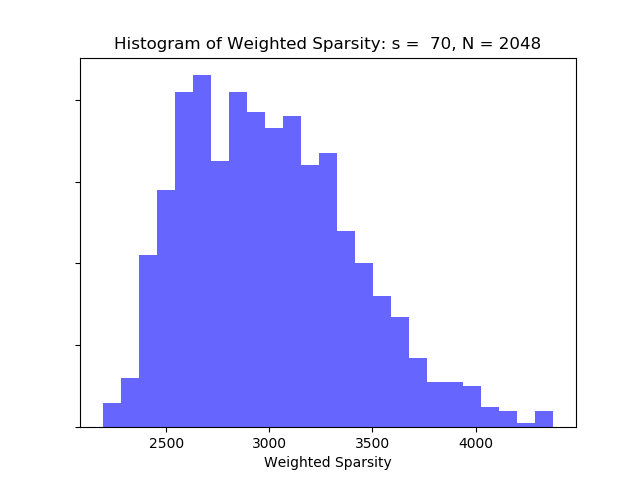
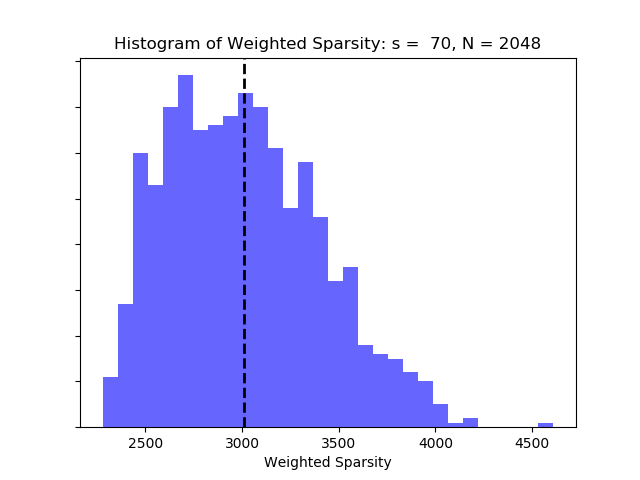
Fixed error in avg calculation

diff --git a/trees.py b/trees.py
@@ -148,43 +148,6 @@ class sTree:
             # increment cl counter
             cl += 1
 
-    def get_k_tree_s():
-        """
-        set value of k tree s given the sparsity
-        level for the tree
-        """
-        # initialize KTS -- K_{tree}(s)
-        KTS = 0
-        # nn -- number of nodes
-        nn = self.s
-        # create bins to count nodes on each level
-        nb = np.zeros(self.max_depth)
-        
-        # create list of all available node nodes
-        node_list = []
-        for level in range(0,self.max_depth):
-            # set max number of nodes for this level
-            nb[level] = 2**level
-            # a list for nodes on this level
-            level_list = []
-            # iterate over all nodes on level n
-            for n in range(0,2**level):
-                level_list.append((level,n))
-            # append level_list into node list
-            node_list.append(level_list)
-
-        # iterate over s nodes
-        while nn >= 0:
-            # find deepest available index
-            deepest = max(min(node_list))
-            # place node on deepest level possible
-            KTS += 2**deepest[0]
-            # increment counter for nodes on this level
-            # decrement count of nodes
-            nn -= 1
-            # remove node index from list
-            node_list[deepest[0]].remove((deepest[0],deepest[1]))
-
     def reset_tree(self):
         """
         zero out the current nodes 
@@ -196,26 +159,3 @@ class sTree:
         self.norm = 0
 
         return
-
-    def print_tree(self):
-        """
-        prints a visualization of the tree
-        should be called after grow_tree
-        """
-        l = 14
-        end = 2**9
-        A = np.zeros((l,end))
-        # iterate through the nodes
-        for n in self.nodes:
-            # check to make sure node is in range
-            if n.idx[0] < l and n.idx[1] < end:
-                # make a change in the matrix A to show node
-                p = n.idx
-                A[p[0],p[1]] = 1
-
-        # display matrix
-        #plt.imshow(A)
-        #plt.show()
-
-        return A
-

diff --git a/gen_stats.py b/gen_stats.py
@@ -32,16 +32,19 @@ for sle in range(70,72):
         T.reset_tree()
         T.grow_tree()
         # compute average
-        avg += (1/bN)*T.norm
+        avg += (1./sampN)*T.norm
         # save value
         vals.append(T.norm)
     
     # compute standard deviation
     stdval = np.std(vals)
+    print(avg)
+    print(sum(vals)/len(vals))
     
     # genereate histogram
     fig, ax = plt.subplots(1)
-    plt.hist(vals,bins=25,alpha=0.6,color='b')
+    plt.hist(vals,bins=30,alpha=0.6,color='b')
+    plt.axvline(sum(vals)/len(vals), color='k', linestyle='dashed', linewidth=2)
     ax.set_xlabel('Weighted Sparsity')
     ax.set_yticklabels([])
     title = "Histogram of Weighted Sparsity: s = %3d, N = %4d" % (sle,bN)
